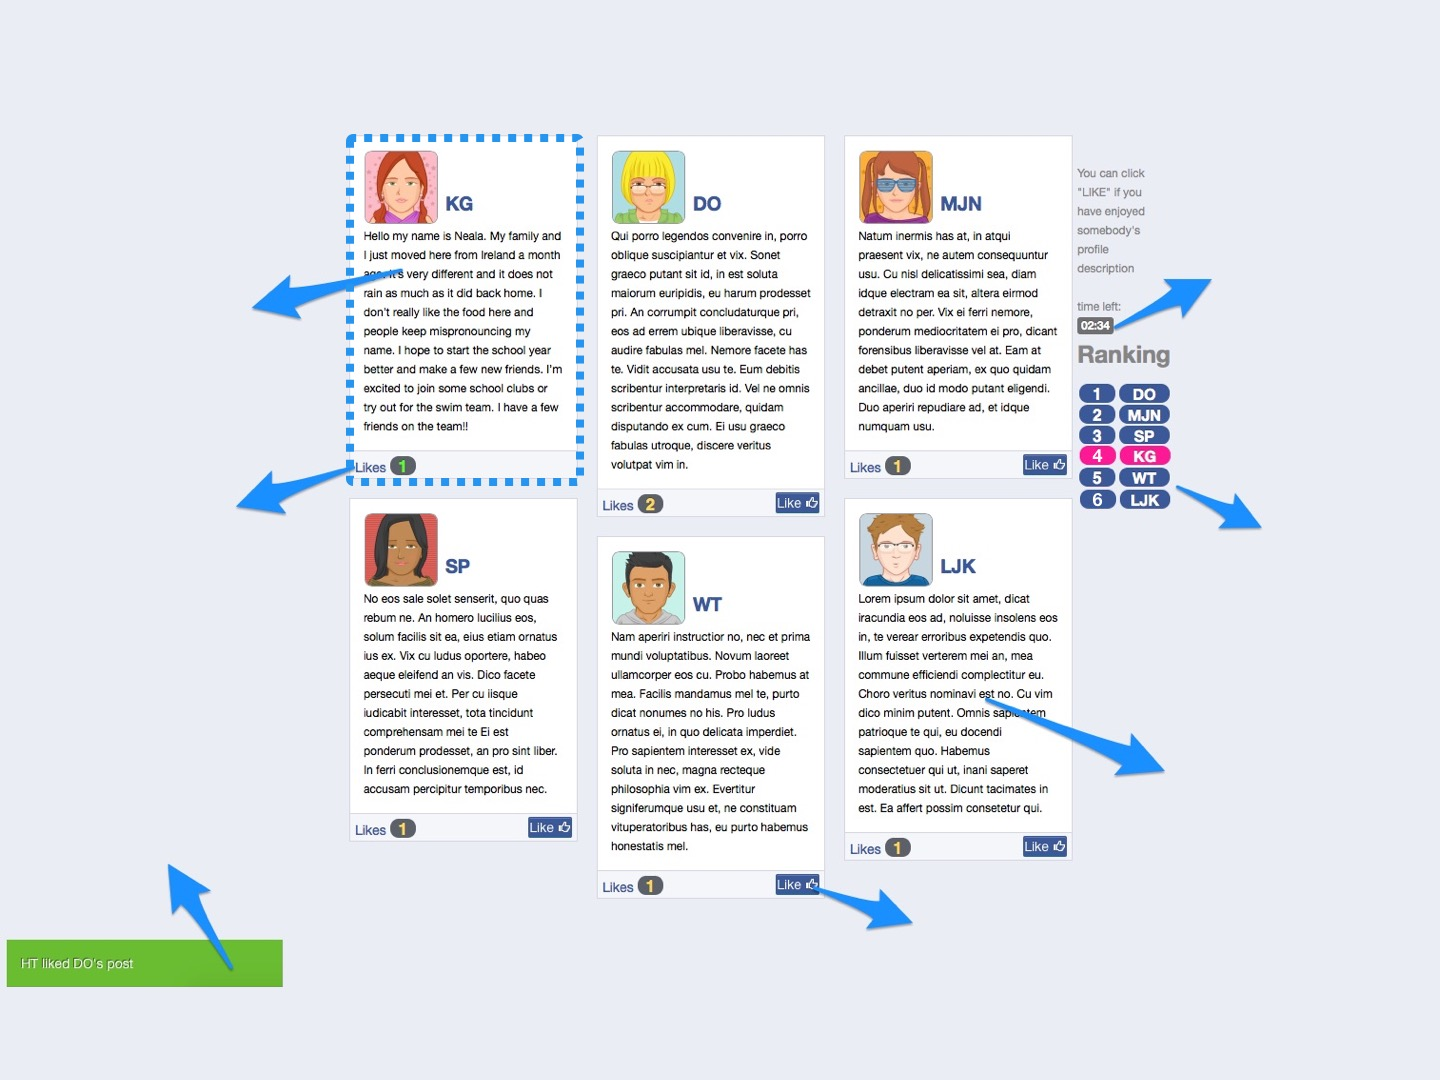
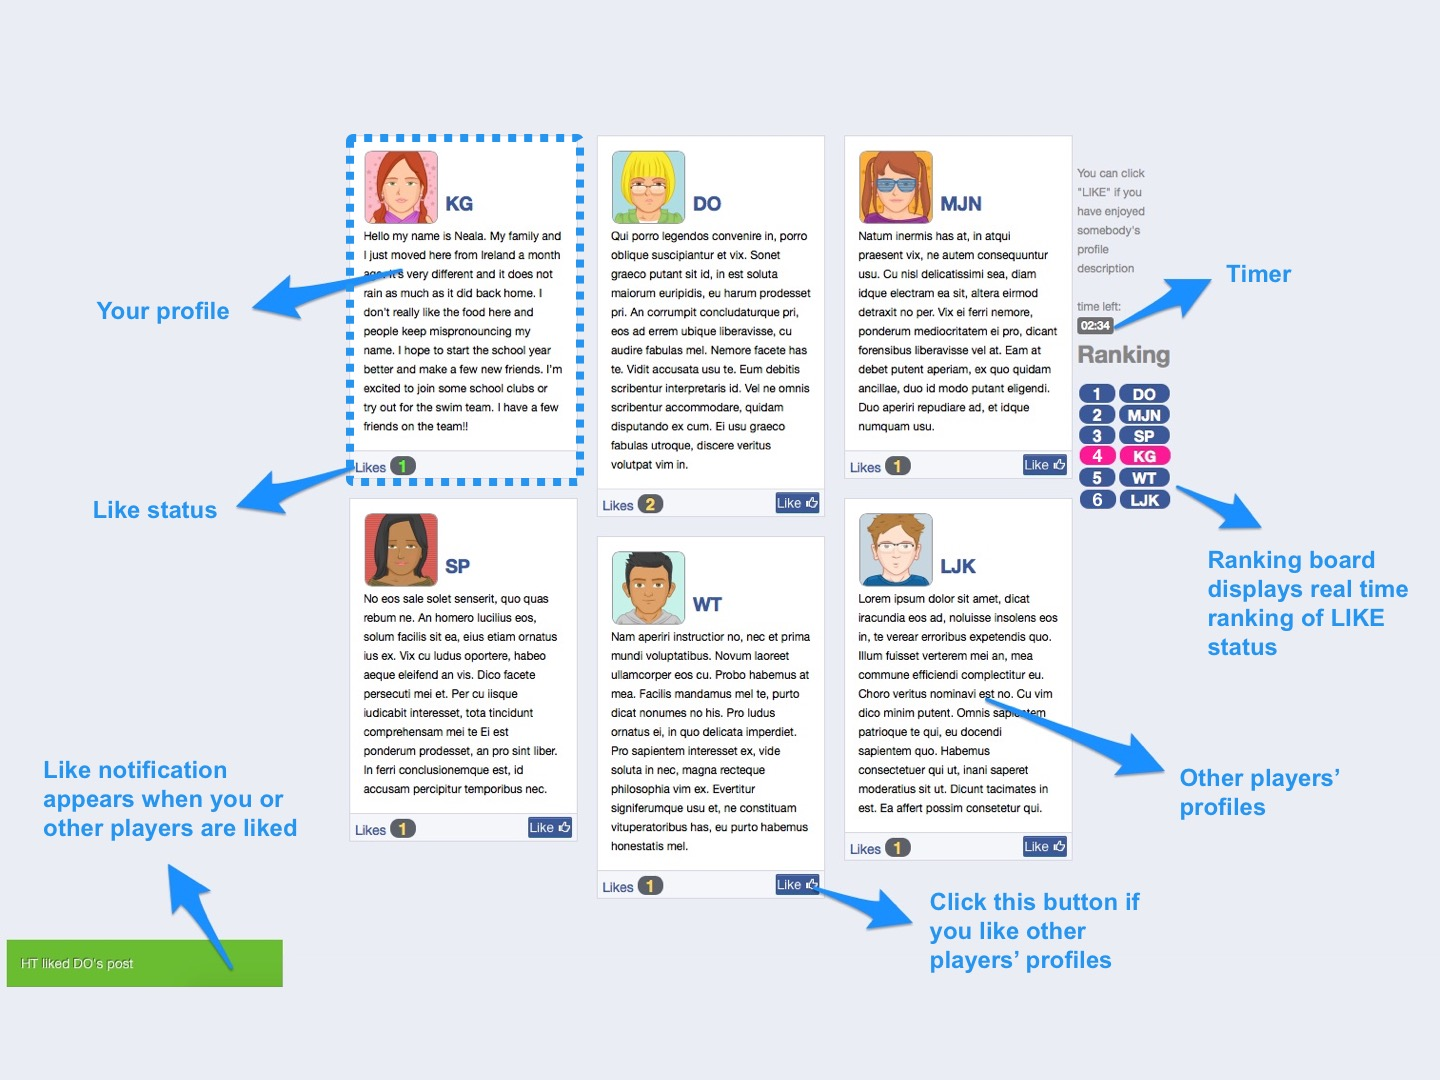
guide image thing

diff --git a/index.html b/index.html
@@ -177,14 +177,6 @@ You can edit the instructions text. The prompt to try and form an impression of 
 -->  <h3>A visual guide to the Get-To-Know-People task</h3>
 Here is a quick visual guide to the important features of the task.
 <img src="guide.jpg">
-<div class="guidetext1" style="position:absolute;right:50%;margin-right:180px;top:260px;"><h1>Your profile</h1></div>
-<div class="guidetext1" style="position:absolute;right:50%;margin-right:75px;top:355px; width:220px;"><h1>Like status</h1></div>
-<div class="guidetext1" style="position:absolute;right:50%;margin-right:180px;top:480px;width:220px;"><h1>Like notification appears when you or other players are liked</h1></div>
-
-<div class="guidetext1" style="position:absolute;left:50%;margin-left:300px;top:245px;"><h1>Timer</h1></div>
-<div class="guidetext1" style="position:absolute;left:50%;margin-left:320px;top:385px; width:200px;"><h1>Ranking board displays real time ranking of LIKE status</h1></div>
-<div class="guidetext1" style="position:absolute;left:50%;margin-left:275px;top:490px;"><h1>Other players' profiles</h1></div>
-<div class="guidetext1" style="position:absolute;left:50%;margin-left:150px;top:570px; width:250px;"><h1>Click this button if you like other players' profiles</h1></div>
 <br>
 
     <div style="margin-bottom: 100px;">
